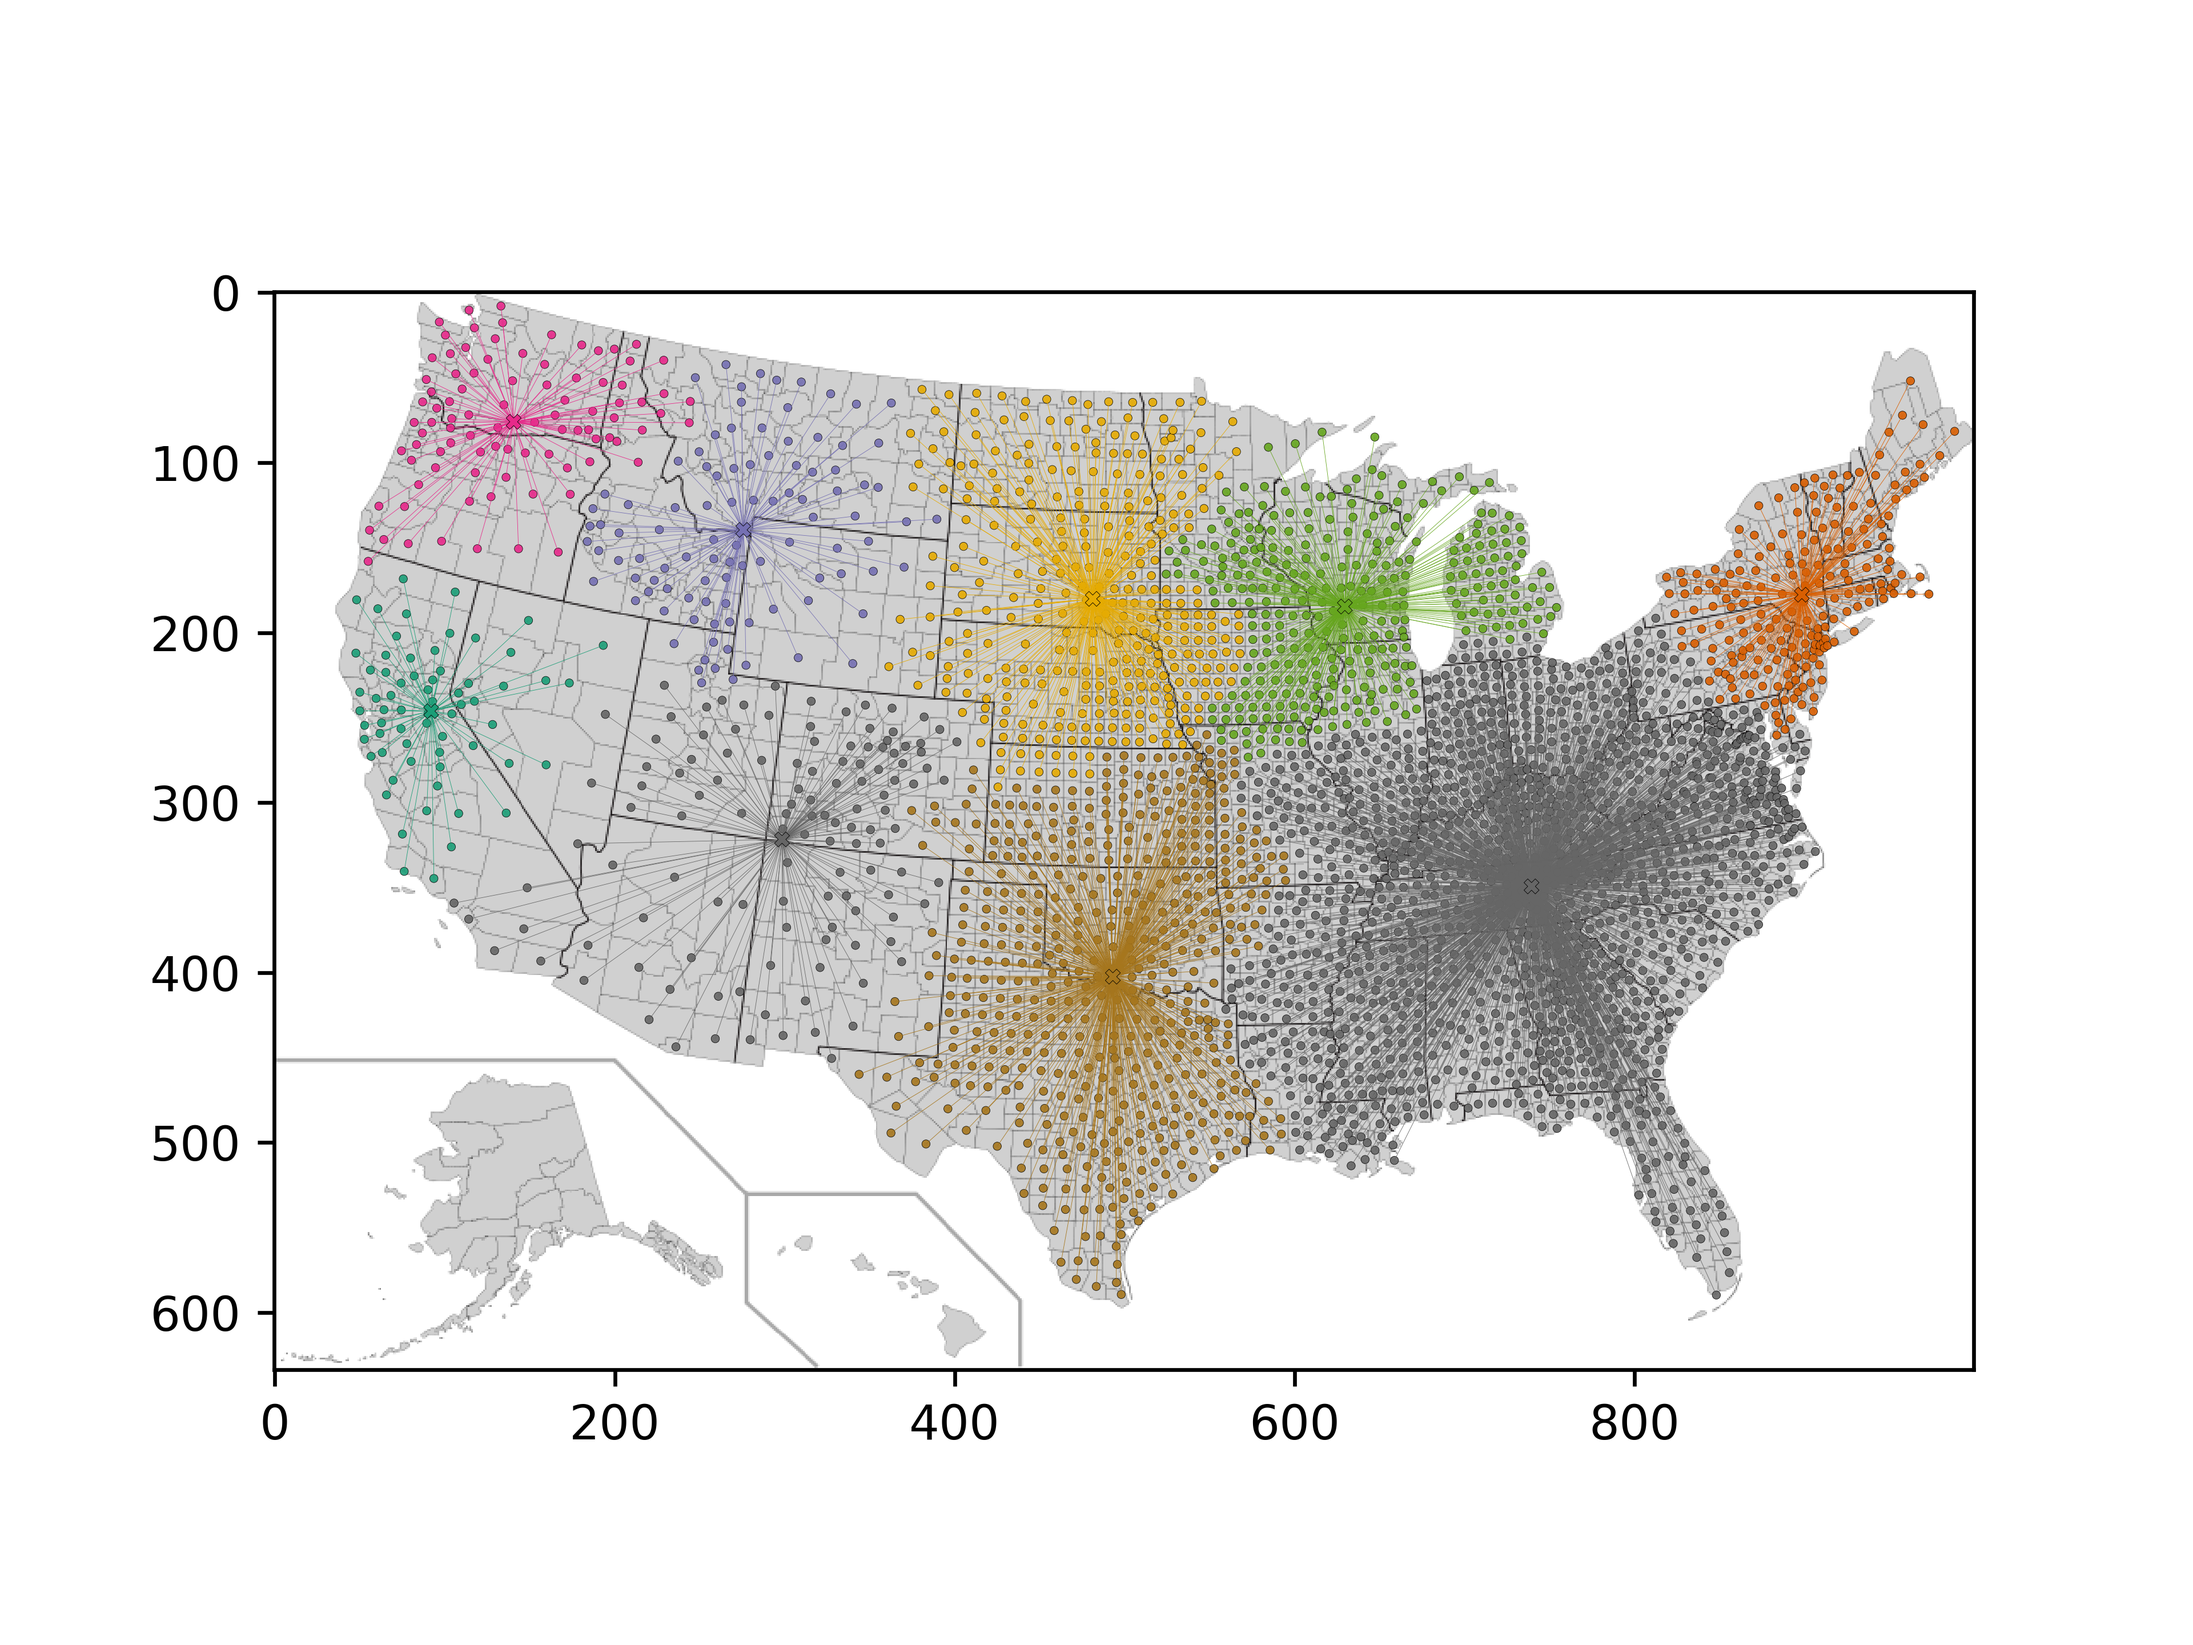
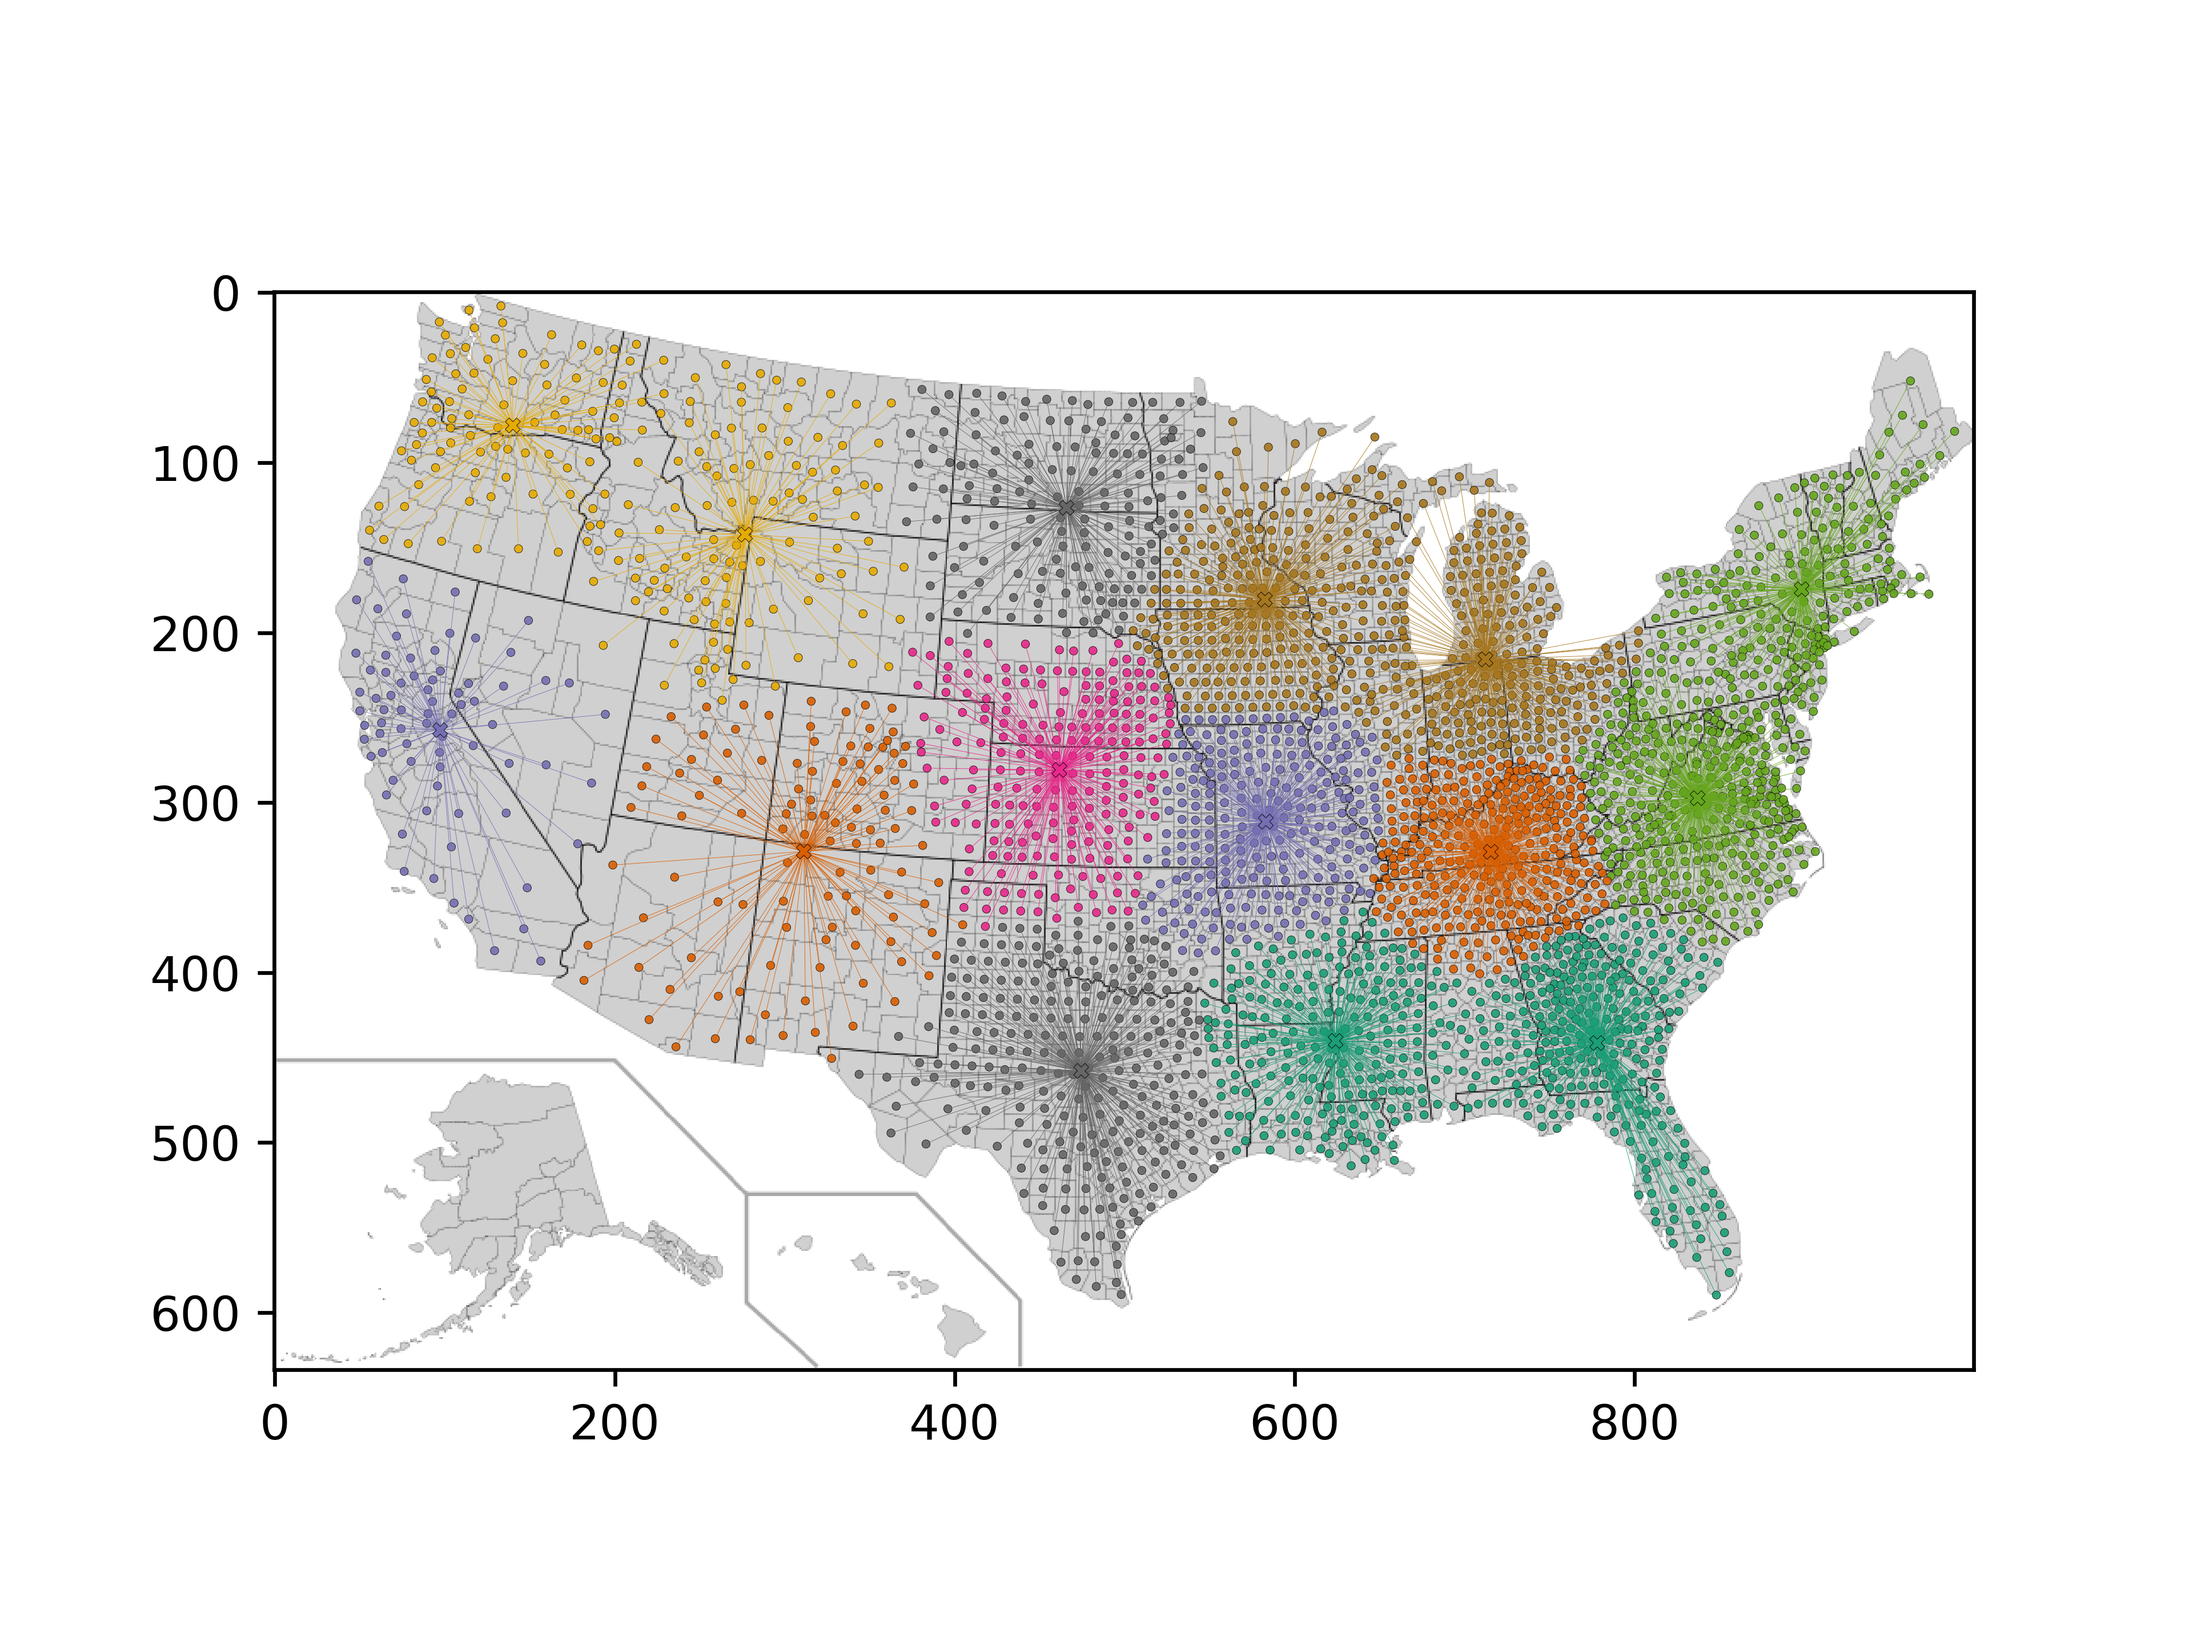
Sistemato kmeans e aggiunte due versioni differenti

Changed region(s): [[0.1875, 0.1875, 0.875, 0.7812], [0.1562, 0.375, 0.25, 0.5]]

diff --git a/Lab4/Script/kmeans.py b/Lab4/Script/kmeans.py
@@ -1,33 +1,29 @@
-from Lab4.Script.Contea import Contea
+from collections import defaultdict
 from Lab4.Script.HierarchicalClustering import euclidean_dist
-from Lab4.Script.Parser import Parser
-from Lab4.Script.ScatterPlotCluster import scatter_plot_cluster
 
 def kmeans(P, k, q):
     n = len(P)
-    sortedP = sorted(P, key=lambda c: c.population)  # sortedP = P ordinato secondo la popolazione
-    centers = []
-    for i in range(k):
-        centers.append(sortedP[n-1-i])
-        l = [0 for x in range(n)]
+    sortedP = sorted(P, key=lambda c: c.population, reverse=True)  # sortedP = P ordinato secondo la
+
+    centers = [(sortedP[i].x, sortedP[i].y) for i in range(k)]
+
+    l = [-1 for x in range(n)]
+
     for i in range(q):
         for j in range(n):
             l[j] = minDist(P[j], centers)
         centers = center(P, l, k)
-    clusters = {c: [] for c in centers}
+
+    clusters = defaultdict(list)
     for i in range(n):
         clusters[centers[l[i]]].append(P[i])
     return clusters
-
-
-
-
 
 def minDist(P, centers):
     min = float('inf')
     index = None
     for c in range(len(centers)):
-        dist = euclidean_dist((P.x, P.y), (centers[c].x, centers[c].y))
+        dist = euclidean_dist((P.x, P.y), (centers[c][0], centers[c][1]))
         if dist < min:
             min = dist
             index = c
@@ -35,39 +31,15 @@ def minDist(P, centers):
 
 
 def center(P, l, k):
-    centers = [Point(0, 0) for x in range(k)]
+    centers = [(0, 0) for x in range(k)]
     count = [0 for x in range(k)]
+
     for i in range(len(P)):
-        centers[l[i]].x += P[i].x
-        centers[l[i]].y += P[i].y
+        centers[l[i]] = (centers[l[i]][0] + P[i].x, centers[l[i]][1] + P[i].y)
         count[l[i]] += 1
+
     for c in range(k):
-        centers[c].x /= count[c]
-        centers[c].y /= count[c]
+        centers[c] = (centers[c][0]/count[c], centers[c][1]/count[c])
     return centers
 
-
-class Point:
-    def __init__(self, x, y):
-        self.x = x
-        self.y = y
-
-    def __str__(self):
-        s = ("x: " + str(self.x) + " y: " + str(self.y))
-        return s
-
-    def __repr__(self):
-        s = ("x: " + str(self.x) + " y: " + str(self.y))
-        return s
-
-L = Parser('unifiedCancerData_3108.csv')
-
-
-lists = [Contea(0, 1, 1, 1, 0), Contea(1, 3, 2.5, 2, 0), Contea(2, 1.25, 3.75, 3, 0),
-         Contea(3, 7, 2, 4, 0), Contea(4, 5, 6, 0, 0), Contea(5, 6.5, 5.5, 0, 0),
-         Contea(6, 6, 6, 10, 0)]
-
-clusters = kmeans(L, 15, 100)
-
-scatter_plot_cluster(clusters, L)
 

diff --git a/Lab4/Script/kmeans_3.py b/Lab4/Script/kmeans_3.py
@@ -1,0 +1,38 @@
+from collections import defaultdict
+from Lab4.Script.HierarchicalClustering import euclidean_dist
+
+
+def kmeans(P, k, q):
+    sortedP = sorted(P, key=lambda c: c.population, reverse=True)  # sortedP = P ordinato secondo la popolazione
+
+    centers = [(sortedP[i].x, sortedP[i].y) for i in range(k)]
+
+    clusters = defaultdict(list)
+
+    for i in range(q):
+        clusters, points_sum = partition(P, centers)
+        for j in range(k):
+            x, y = points_sum[centers[j]]
+            n = len(clusters[centers[j]])
+            centers[j] = (x/n, y/n)
+
+    return clusters
+
+
+def partition(P, centers):
+    # c = {i: [] for i in centers}  # dizionario con chiavi = centri, valori = lista di punti nel cluster con centro == chiave
+    points_sum = {i: (0, 0) for i in centers}
+    c = defaultdict(list)
+    n = len(centers)
+
+    for p in P:
+        best_c = centers[0]
+        best_dist = euclidean_dist((p.x, p.y), (centers[0][0], centers[0][1]))
+        for i in range(1, n):
+            tmp_dist = euclidean_dist((p.x, p.y), (centers[i][0], centers[i][1]))
+            if tmp_dist < best_dist:
+                best_dist = tmp_dist
+                best_c = centers[i]
+        c[best_c].append(p)
+        points_sum[best_c] = (points_sum[best_c][0] + p.x, points_sum[best_c][1] + p.y)
+    return c, points_sum

diff --git a/Lab4/Script/kmeans_2.py b/Lab4/Script/kmeans_2.py
@@ -1,0 +1,29 @@
+from Lab4.Script.HierarchicalClustering import euclidean_dist, calcCenter
+
+
+def kmeans(P, k, q):
+    sortedP = sorted(P, key=lambda c: c.population, reverse=True)  # sortedP = P ordinato secondo la popolazione
+
+    centers = [(sortedP[i].x, sortedP[i].y) for i in range(k)]
+
+    for i in range(q):
+        clusters = partition(P, centers)
+        for j in range(k):
+            centers[j] = calcCenter(clusters[centers[j]])
+    return clusters
+
+
+def partition(P, centers):
+    c = {i: [] for i in centers}  # dizionario con chiavi = centri, valori = lista di punti nel cluster con centro == chiave
+    n = len(c)
+
+    for p in P:
+        best_c = centers[0]
+        best_dist = euclidean_dist((p.x, p.y), (centers[0][0], centers[0][1]))
+        for i in range(1, n):
+            tmp_dist = euclidean_dist((p.x, p.y), (centers[i][0], centers[i][1]))
+            if tmp_dist < best_dist:
+                best_dist = tmp_dist
+                best_c = centers[i]
+        c[best_c].append(p)
+    return c

diff --git a/Lab4/Script/main.py b/Lab4/Script/main.py
@@ -1,0 +1,28 @@
+import time
+from Lab4.Script import Parser
+from Lab4.Script.kmeans import kmeans
+from Lab4.Script.kmeans_2 import kmeans as kmeans_2
+from Lab4.Script.kmeans_3 import kmeans as kmeans_3
+
+dataset_212 = Parser.Parser('unifiedCancerData_212.csv')
+dataset_526 = Parser.Parser('unifiedCancerData_562.csv')
+dataset_1041 = Parser.Parser('unifiedCancerData_1041.csv')
+dataset_3108 = Parser.Parser('unifiedCancerData_3108.csv')
+
+print("Kmeans:")
+start=time.time()
+clusters = kmeans(dataset_3108, 100, 300)
+print(time.time()-start)
+
+print("Kmeans_2:")
+start=time.time()
+clusters = kmeans_2(dataset_3108, 100, 300)
+print(time.time()-start)
+
+print("Kmeans_3:")
+start=time.time()
+clusters = kmeans_3(dataset_3108, 100, 300)
+print(time.time()-start)
+
+
+

diff --git a/Lab4/Script/HierarchicalClustering.py b/Lab4/Script/HierarchicalClustering.py
@@ -145,8 +145,6 @@ def euclidean_dist(c1, c2):
 #print("")
 h_clustering(lists, 3)
 
-
-"""
 lists = Parser.Parser('unifiedCancerData_3108.csv')
 
 start = time.time()
@@ -165,7 +163,7 @@ end = time.time()
 ScatterPlotCluster.scatter_plot_cluster(clusters, lists)
 
 print("Exec. time:", end - start)
-"""
+
 X = np.array([[i.x, i.y] for i in lists])
 
 plt.scatter(X[:,0],X[:,1], c=labels, cmap='rainbow')

diff --git a/Lab4/Script/Parser.py b/Lab4/Script/Parser.py
@@ -15,12 +15,3 @@ def Parser(filename):
             dataset.append(Contea.Contea(line[0], float(line[1]), float(line[2]),
                                       int(line[3]), float(line[4])))
     return dataset
-
-
-
-"""L = Parser('unifiedCancerData_212.csv')
-
-for j in L:
-    print(j)
-
-"""
